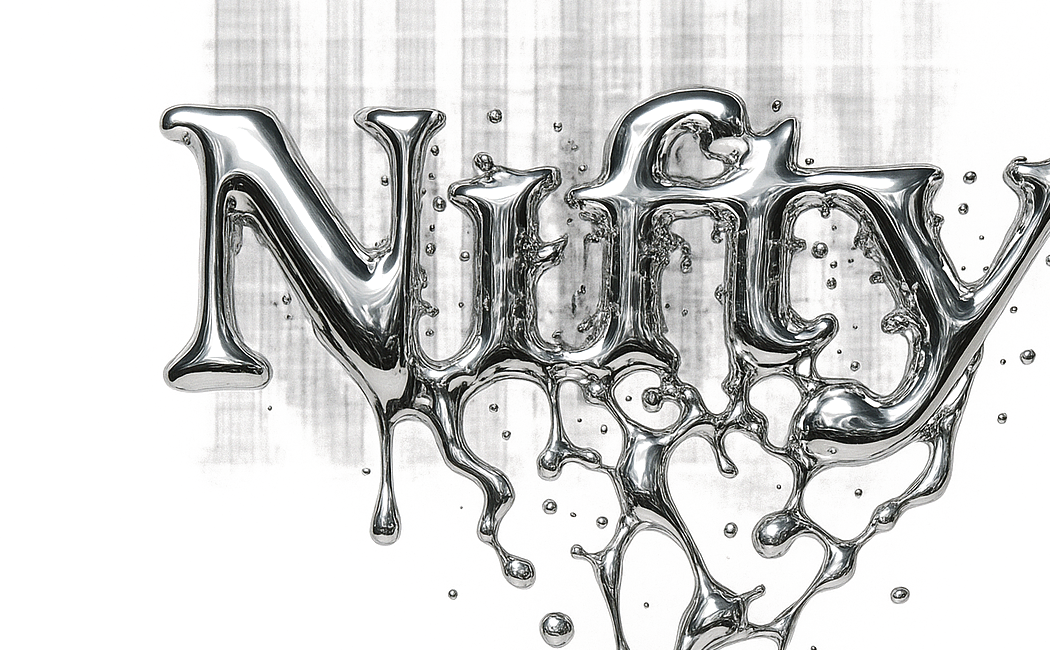
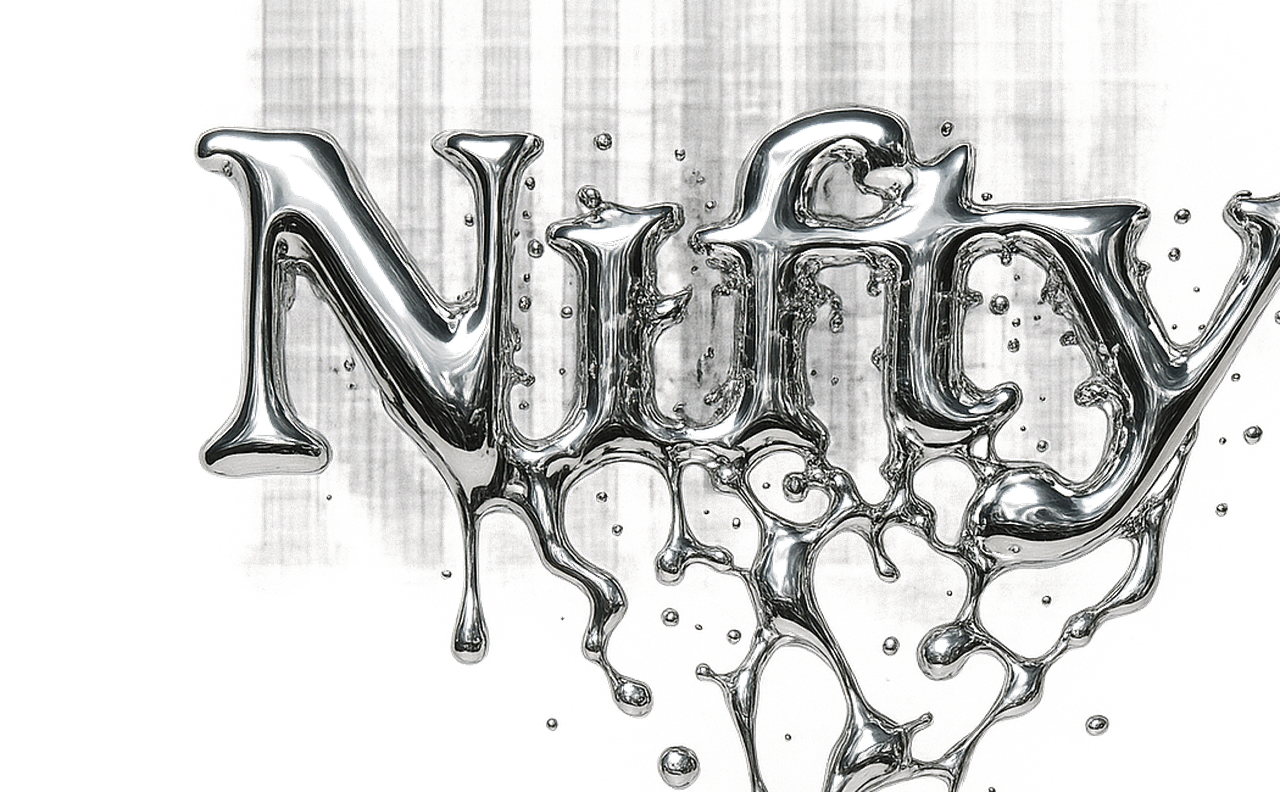
Add MASTER Prompt Library to portfolio, purge unused images, optimize hero wordmark
Portfolio + CurrentlyBuilding now feature the Prompt Library as a Live
lead card. The 9-layer MASTER framework + 427 prompts back up the
'prompt engineering since 2020' claim in the hero with a clickable
artifact. Retail Lead Router moved out of the public grid into the
CurrentlyBuilding In Development column where it still earns its keep.

Hero counter corrected from '2 shipped, 1 in development' to '3
shipped, 2 in development' to match the actual project state.

Image pipeline: deleted 24 unused PNGs (chrome-wordmark variants,
icon-button-XX, original ChatGPT exports). public/images/ went from
56 MB to 2.3 MB. hero-wordmark-01 resized to 1280x792 and a WebP
companion generated; Hero now serves WebP via <picture> with PNG
fallback, dropping the LCP asset from 1.7 MB to ~690 KB for ~98% of
visitors.

Build.log added to .gitignore.

diff --git a/README.md b/README.md
@@ -30,6 +30,7 @@ The same shipped work that's featured on the live site.
 
 | Project | What it does | Stack | Status |
 |---|---|---|---|
+| **[MASTER Prompt Library](https://igorcsis.github.io/prompt-library/)** | 427 career-grade prompts built on a 9-layer framework (Mission, Agent, Situation, Task, Examples, Rules, Think, Eval, Output). Templates, completed exercises, and a scheduled scraper that surfaces the best prompts from across the web. | Next.js, TypeScript, GitHub Pages | Live |
 | **[NiftyStats](https://igorcsis.github.io/niftystats/)** ([code](https://github.com/IgorCSIS/niftystats)) | Browser-native statistical analysis. Drop a CSV, get descriptives, distributions, and correlations. Pyodide runs Python in WebAssembly so data never leaves your machine. | Vite, React, Pyodide, Pandas | Live |
 | **[NiftyVid](https://igorcsis.github.io/nifty-vid/)** ([code](https://github.com/IgorCSIS/nifty-vid)) | Image-to-video AI in the browser. Drop a photo, write a motion prompt, get a 5-second MP4 back. Powered by Wan 2.2, the open-source answer to Runway Gen-3 and Kling. | Astro, Tailwind, Cloudflare Workers, Wan 2.2 | Live |
 | **Retail Lead Router** | Agent that reads inbound retail leads, routes by intent (financing, walk-in, B2B, support), and drafts the first reply. Built from real mattress-store operator experience. | Python, OpenAI, Twilio, Postgres | In development |
